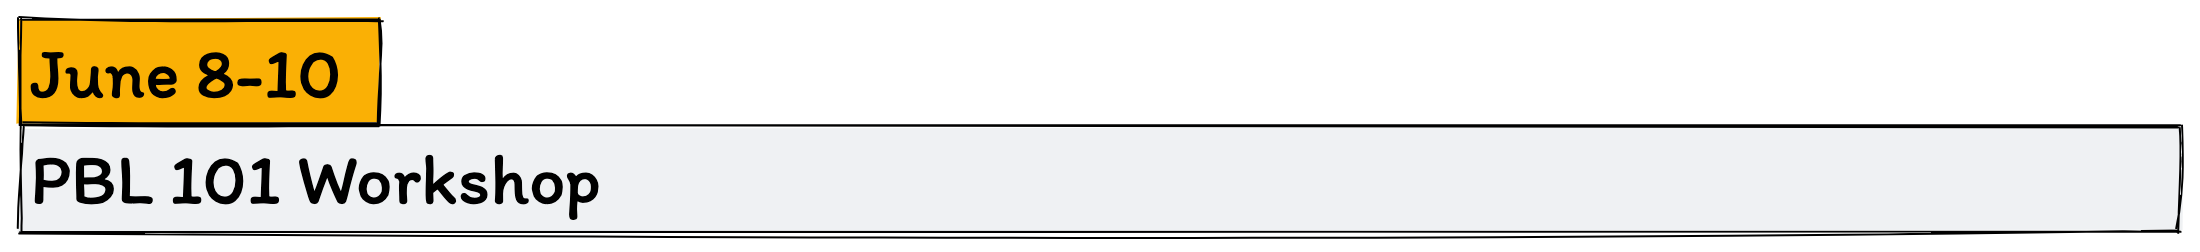
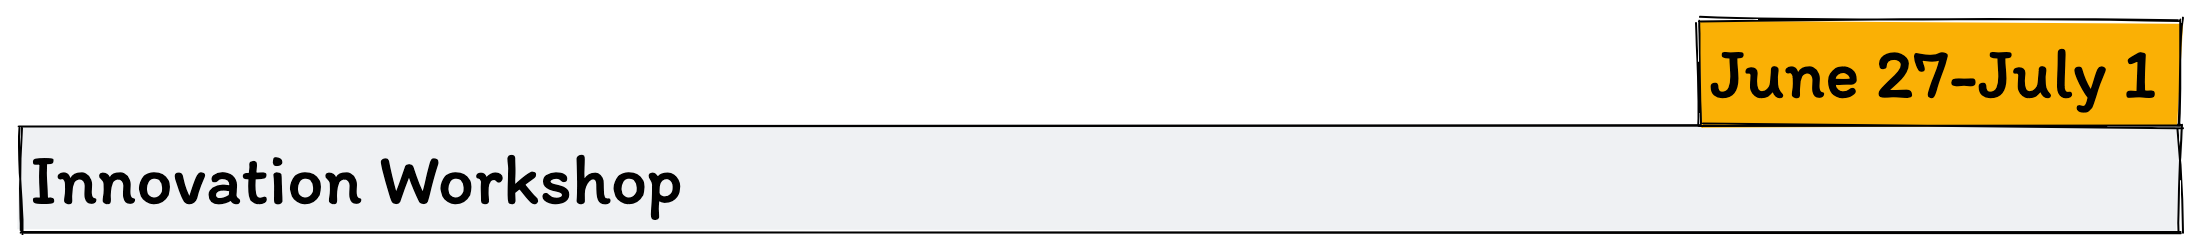
GitBook: [#4] No subject

Changed region(s): [[0.0, 0.0556, 1.0, 0.9722], [0.0, 0.6111, 0.3091, 0.8611]]

diff --git a/README.md b/README.md
@@ -2,21 +2,13 @@
 
 ## Welcome to Our 2021 Online Summer Workshop Series!&#x20;
 
+![](<.gitbook/assets/image (1).png>)
+
+![](<.gitbook/assets/image (2).png>)
+
+![](<.gitbook/assets/image (3).png>)
+
 ![](.gitbook/assets/image.png)
-
-All about planning classroom management and assessments for projects.
-
-
-
-**June 13-17: Cross Disciplinary Workshops**\
-Choose from six short projects that blend computer science into other disciplines.
-
-**June 20-24: Programming Workshops**\
-****Choose from Trivia, Chatbot, Robot, Video Game, IoT, and Data Visualization programming.
-
-**June 27-July 1: Innovation Workshop**\
-Prepare for a full computer science experience with projects.\
-<mark style="background-color:blue;">★ This workshop is in person as part of CSPD week</mark>
 
 
 
